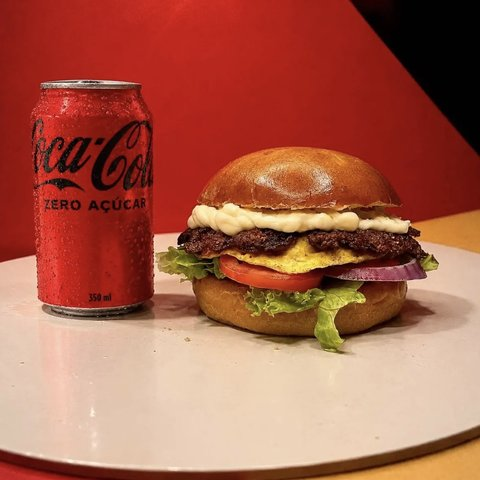
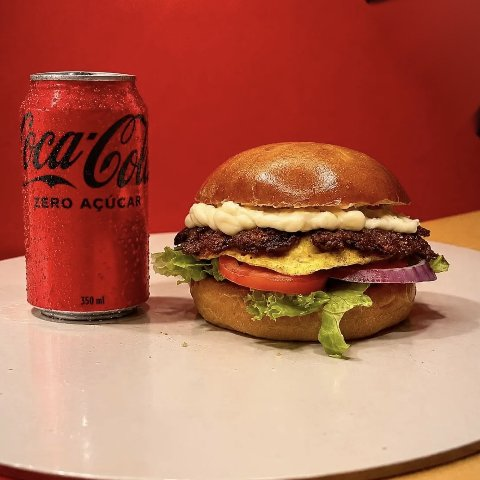
Mesaí: foto da Hamburgueria com zoom de 5% e canto preto da imagem original preenchido (inpaint); ?v=81 e SW 62
Claude-Session: https://claude.ai/code/session_014e9zeZ9QJHgmyVH5Pq4PL6

Changed region(s): [[0.0, 0.125, 1.0, 0.75], [0.0, 0.875, 1.0, 1.0], [0.7188, 0.0, 1.0, 0.3438]]

diff --git a/mesai/v2/index.html b/mesai/v2/index.html
@@ -2,10 +2,10 @@
 <html lang="pt-BR">
 <head>
 <meta charset="utf-8"><meta name="viewport" content="width=device-width,initial-scale=1,viewport-fit=cover">
-<meta name="theme-color" content="#ffffff"><link rel="manifest" href="manifest.webmanifest"><link rel="apple-touch-icon" sizes="180x180" href="assets/apple-touch-icon.png?v=80"><meta name="apple-mobile-web-app-capable" content="yes"><meta name="apple-mobile-web-app-title" content="Mesaí"><meta name="description" content="Descubra restaurantes presenciais e veja o ambiente antes de sair.">
+<meta name="theme-color" content="#ffffff"><link rel="manifest" href="manifest.webmanifest"><link rel="apple-touch-icon" sizes="180x180" href="assets/apple-touch-icon.png?v=81"><meta name="apple-mobile-web-app-capable" content="yes"><meta name="apple-mobile-web-app-title" content="Mesaí"><meta name="description" content="Descubra restaurantes presenciais e veja o ambiente antes de sair.">
 <title>Mesaí — descubra onde comer</title>
-<link rel="stylesheet" href="css/tokens.css?v=80">
-<link rel="stylesheet" href="css/app.css?v=80">
+<link rel="stylesheet" href="css/tokens.css?v=81">
+<link rel="stylesheet" href="css/app.css?v=81">
 
 </head>
 <body>
@@ -130,11 +130,11 @@
 <div class="onb o2" id="onb" role="dialog" aria-modal="true" aria-label="Boas-vindas ao Mesaí" hidden><div class="o2-top"><img src="assets/mesai-logo.png" alt="Mesaí"><button class="onb-skip" id="onbSkip">Pular</button></div><div class="onb-track"><section class="onb-s" data-i="0" aria-hidden="false"><div class="o2-art a1" aria-hidden="true"><span class="o2-stk s1"><img src="assets/cat-regional.jpg" alt=""></span><span class="o2-stk s2"><img src="assets/cat-hamburguer.jpg" alt=""></span><span class="o2-stk s3"><img src="assets/cat-pizza.jpg" alt=""></span><span class="o2-stk s4"><img src="assets/cat-cafe.jpg" alt=""></span><span class="o2-stk s5"><img src="assets/cat-acai.jpg" alt=""></span><svg class="o2-pin" viewBox="0 0 44 56"><path d="M22 54S4 34 4 21a18 18 0 0 1 36 0c0 13-18 33-18 33Z" fill="#e87558" stroke="#2b1a14" stroke-width="3.5"/><circle cx="22" cy="21" r="7" fill="#fff" stroke="#2b1a14" stroke-width="3"/></svg><i class="o2-sp p1">✦</i><i class="o2-sp p2">✦</i></div><div class="o2-txt"><span class="o2-chip"><i></i>Parte alta · Maceió</span><h2><span class="nw">Onde comer bem,</span> <span class="nw">sentado à mesa</span></h2><p>Restaurantes, lanchonetes e cafés para você ir, sentar e aproveitar. Não é delivery.</p></div></section><section class="onb-s" data-i="1" aria-hidden="true"><div class="o2-art a2" aria-hidden="true"><div class="o2-bub b1"><span class="ic">★</span><b>Dica</b>Vai cedo, que enche no almoço.</div><div class="o2-bub b2"><span class="ic">♥</span><b>Elogio</b>Ambiente tranquilo para ir em grupo.</div><div class="o2-bub b3"><span class="ic">!</span><b>Reclamação</b>Demorou mais do que o combinado.</div><i class="o2-sp p3">✦</i></div><div class="o2-txt"><span class="o2-chip"><i></i>Comunidade</span><h2>Dicas de quem já foi</h2><p>Elogios, reclamações e dicas de gente da cidade. Toda mensagem passa por um filtro antes de aparecer.</p></div></section><section class="onb-s" data-i="2" aria-hidden="true"><div class="o2-art a3" aria-hidden="true"><svg class="o2-route" viewBox="0 0 358 400" preserveAspectRatio="none"><path d="M110 150 C 60 230, 250 210, 250 300" fill="none" stroke="#2b1a14" stroke-width="4" stroke-dasharray="2 12" stroke-linecap="round"/></svg><svg class="o2-heart" viewBox="0 0 140 130"><path d="M70 122S8 82 8 42A32 32 0 0 1 70 28a32 32 0 0 1 62 14c0 40-62 80-62 80Z" fill="#e87558" stroke="#2b1a14" stroke-width="5" stroke-linejoin="round"/><path d="M34 40a16 16 0 0 1 16-14" stroke="#fff" stroke-width="6" stroke-linecap="round" fill="none"/></svg><span class="o2-stk s6"><img src="assets/cat-pizza.jpg" alt=""></span><svg class="o2-pin pn2" viewBox="0 0 44 56"><path d="M22 54S4 34 4 21a18 18 0 0 1 36 0c0 13-18 33-18 33Z" fill="#e87558" stroke="#2b1a14" stroke-width="3.5"/><circle cx="22" cy="21" r="7" fill="#fff" stroke="#2b1a14" stroke-width="3"/></svg><i class="o2-sp p4">✦</i><i class="o2-sp p5">✦</i></div><div class="o2-txt"><span class="o2-chip"><i></i>Favoritos + rota</span><h2>Salve seus favoritos e trace a rota</h2><p>Monte sua lista e abra o caminho no Google Maps com um toque.</p></div></section><section class="onb-s offer" data-i="3" aria-hidden="true"><button class="onb-x" id="onbX" aria-label="Fechar">✕</button><div class="o2-art a4" aria-hidden="true"><span class="o2-stk s7"><img src="assets/cat-hamburguer.jpg" alt=""></span><span class="o2-stk s8"><img src="assets/cat-regional.jpg" alt=""></span><span class="o2-stk s9"><img src="assets/cat-cafe.jpg" alt=""></span><i class="o2-sp p6">✦</i></div><h2>Mesaí Plus</h2><p class="o2-sub">14 dias grátis para testar tudo</p><ul class="o2-ben"><li><span>📋</span>Listas para compartilhar com amigos</li><li><span>🔔</span>Alerta quando abrir lugar novo perto</li><li><span>⭐</span>Seus pontos viram vantagens</li></ul><div class="o2-plans"><button class="op on" data-op="anual" aria-pressed="true"><em>Economize 33%</em><i class="rd"></i><span>Anual</span><b>R$ 79,00<small>/ano</small></b><small>equivale a R$ 6,58/mês</small></button><button class="op" data-op="mensal" aria-pressed="false"><i class="rd"></i><span>Mensal</span><b>R$ 9,90<small>/mês</small></b><small>&nbsp;</small></button></div><p class="o2-fine">Grátis por 14 dias, depois R$ 79,00 por ano ou R$ 9,90 por mês. Nesta versão ainda não há cobrança; avisaremos antes de começar. Cancele quando quiser.</p><button class="o2-cta" id="onbOffer">Começar 14 dias grátis</button><button class="onb-free" id="onbFree">Agora não</button><div class="o2-legal"><a href="#" id="onbRestore">Restaurar compra</a><span>·</span><a href="termos.html">Termos</a><span>·</span><a href="privacidade.html">Privacidade</a></div></section></div><div class="onb-foot"><div class="dots" id="onbDots"><i></i><i></i><i></i></div><button class="o2-cta" id="onbNext">Continuar</button></div></div>
 <div class="toast" id="toast" role="status"></div>
 
-<script src="js/data.js?v=80"></script>
-<script src="js/config.js?v=80"></script>
-<script src="js/api.js?v=80"></script>
-<script src="js/native.js?v=80"></script>
-<script src="js/app.js?v=80"></script>
-<script src="js/sync.js?v=80"></script>
+<script src="js/data.js?v=81"></script>
+<script src="js/config.js?v=81"></script>
+<script src="js/api.js?v=81"></script>
+<script src="js/native.js?v=81"></script>
+<script src="js/app.js?v=81"></script>
+<script src="js/sync.js?v=81"></script>
 </body>
 </html>

diff --git a/mesai/v2/sw.js b/mesai/v2/sw.js
@@ -1,7 +1,7 @@
 // Mesaí · service worker: abre o app mesmo com sinal fraco ou sem internet.
 // Estratégia: o "casco" do app (HTML, CSS, JS, imagens) vem do cache primeiro e é atualizado em segundo plano.
 // Mapas e fotos de terceiros não são guardados.
-const VERSAO = 'mesai-rede-primeiro-61';
+const VERSAO = 'mesai-rede-primeiro-62';
 const CASCO = [
   './', 'index.html', 'manifest.webmanifest',
   'css/tokens.css', 'css/app.css', 'js/data.js', 'js/config.js', 'js/api.js', 'js/app.js', 'js/sync.js',
